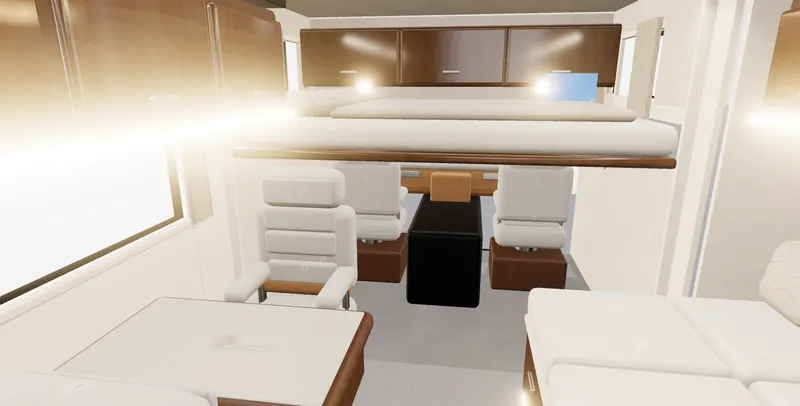
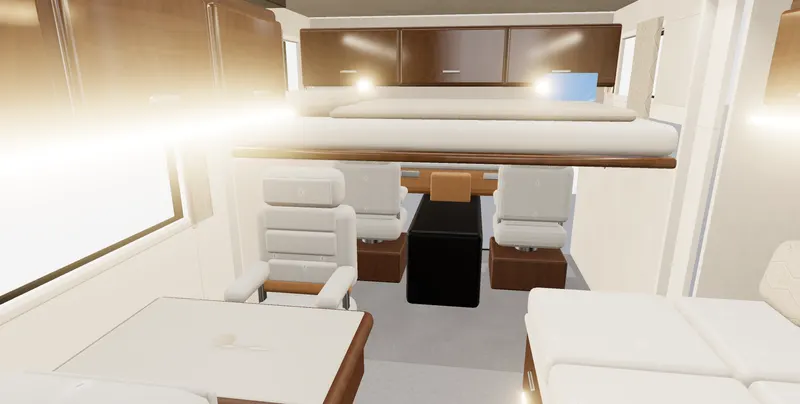
Update homepage image and text

diff --git a/src/data/vehicle.ts b/src/data/vehicle.ts
@@ -219,7 +219,7 @@ export const labelDetail = (l: PlanLabel): string => {
 export const PLAN_LABELS: readonly PlanLabel[] = [
   { text: 'Alcove bed',    placement: 'alcove_bed' },
   { text: 'Slide-out bed', placement: 'slideout_bed' },
-  { text: '卡座 booth',     placement: 'dinette_table' },
+  { text: 'Dinette booth', placement: 'dinette_table' },
   { text: 'Wardrobe',      placement: 'wardrobe' },
   { text: 'Fridge 148 L',  placement: 'fridge' },
   { text: 'Galley',        placement: 'galley_run' },
@@ -229,7 +229,7 @@ export const PLAN_LABELS: readonly PlanLabel[] = [
   // into wall_rear rather than a piece of furniture.
   { text: 'Aisle', at: [d(0), d(900), d(1000)], detail: '560 mm derived' },
   { text: 'Aisle', at: [d(0), d(900), d(3300)], detail: '800 mm derived' },
-  { text: '后上门',  at: [d(100), d(900), d(4050)], detail: 'rear boarding door' },
+  { text: 'Rear boarding door', at: [d(100), d(900), d(4050)], detail: '100 mm off centreline' },
 ];
 
 export const aabb = (p: Placement) => ({

diff --git a/docs/research/final/README.md b/docs/research/final/README.md
@@ -29,6 +29,14 @@ Ceilings are 40 interior and 60 exterior, so both hold with room to spare. The f
 measured over 120 frames into a 3840 x 1882 buffer, which is four times the pixel count of
 1080p; the 60 fps criterion is met with a wide margin.
 
+## Re-captures after this set
+
+- **`plan.png`, 2026-09-07, at 2880 x 1800** (1440 x 900 CSS pixels, device pixel ratio 2). The
+  plan overlay's labels were English-only from this date, so the 2026-09-06 frame showed 卡座 and
+  后上门 where the running app now shows "Dinette booth" and "Rear boarding door". The overview
+  page's floorplan card is cropped from this file, which is why it had to follow the change.
+  Everything else in this directory is still the original 3456 x 1882 set.
+
 ## Where this still departs from the references
 
 - **The exterior is massed rather than sculpted.** Body boxes, wheels, a skirt and a decal, which
